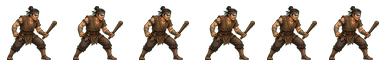
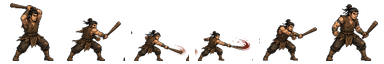
Pilot GPT sheet enemy sprite workflow

diff --git a/tools/cut_task41_thug_sheet.py b/tools/cut_task41_thug_sheet.py
@@ -1,0 +1,95 @@
+#!/usr/bin/env python3
+from pathlib import Path
+from PIL import Image
+
+ROOT = Path(__file__).resolve().parents[1]
+SRC = ROOT / "assets/source/task41/thug_anim_sheet_v1.png"
+OUT_DIR = ROOT / "assets/characters/enemies/thug"
+
+FRAME_BOXES = {
+    "idle": [
+        (55, 18, 276, 249),
+        (328, 19, 540, 249),
+        (576, 19, 789, 249),
+        (812, 23, 1022, 249),
+    ],
+    "attack": [
+        (61, 260, 257, 495),
+        (291, 283, 558, 495),
+        (533, 293, 860, 495),
+        (825, 285, 1184, 495),
+        (1163, 277, 1447, 492),
+        (1447, 270, 1663, 493),
+    ],
+    "hurt": [
+        (60, 511, 260, 728),
+        (338, 516, 556, 728),
+        (619, 556, 838, 728),
+    ],
+    "death": [
+        (44, 744, 308, 891),
+        (324, 787, 649, 891),
+        (662, 792, 1028, 889),
+        (1080, 793, 1437, 891),
+    ],
+}
+
+
+def white_to_alpha(im):
+    im = im.convert("RGBA")
+    px = im.load()
+    for y in range(im.height):
+        for x in range(im.width):
+            r, g, b, a = px[x, y]
+            dist = max(0, 255 - min(r, g, b))
+            if r > 238 and g > 238 and b > 238:
+                px[x, y] = (r, g, b, 0)
+            elif r > 220 and g > 220 and b > 220:
+                px[x, y] = (r, g, b, min(a, dist * 7))
+    return im
+
+
+def strip_edge_alpha(im):
+    px = im.load()
+    w, h = im.size
+    for x in range(w):
+        px[x, 0] = px[x, 0][:3] + (0,)
+        px[x, h - 1] = px[x, h - 1][:3] + (0,)
+    for y in range(h):
+        px[0, y] = px[0, y][:3] + (0,)
+        px[w - 1, y] = px[w - 1, y][:3] + (0,)
+    return im
+
+
+def fit_frame(crop, size=64, pad=3):
+    crop = white_to_alpha(crop)
+    bbox = crop.getchannel("A").getbbox()
+    out = Image.new("RGBA", (size, size), (0, 0, 0, 0))
+    if not bbox:
+        return out
+    spr = crop.crop(bbox)
+    scale = min((size - pad * 2) / spr.width, (size - pad * 2) / spr.height)
+    nw = max(1, int(spr.width * scale))
+    nh = max(1, int(spr.height * scale))
+    spr = spr.resize((nw, nh), Image.Resampling.LANCZOS)
+    out.alpha_composite(spr, ((size - nw) // 2, size - pad - nh))
+    return strip_edge_alpha(out)
+
+
+def join(frames):
+    out = Image.new("RGBA", (64 * len(frames), 64), (0, 0, 0, 0))
+    for i, fr in enumerate(frames):
+        out.alpha_composite(fr, (i * 64, 0))
+    return out
+
+
+def main():
+    sheet = Image.open(SRC).convert("RGBA")
+    OUT_DIR.mkdir(parents=True, exist_ok=True)
+    for anim, boxes in FRAME_BOXES.items():
+        frames = [fit_frame(sheet.crop(box)) for box in boxes]
+        join(frames).save(OUT_DIR / f"{anim}.png")
+
+
+if __name__ == "__main__":
+    main()
